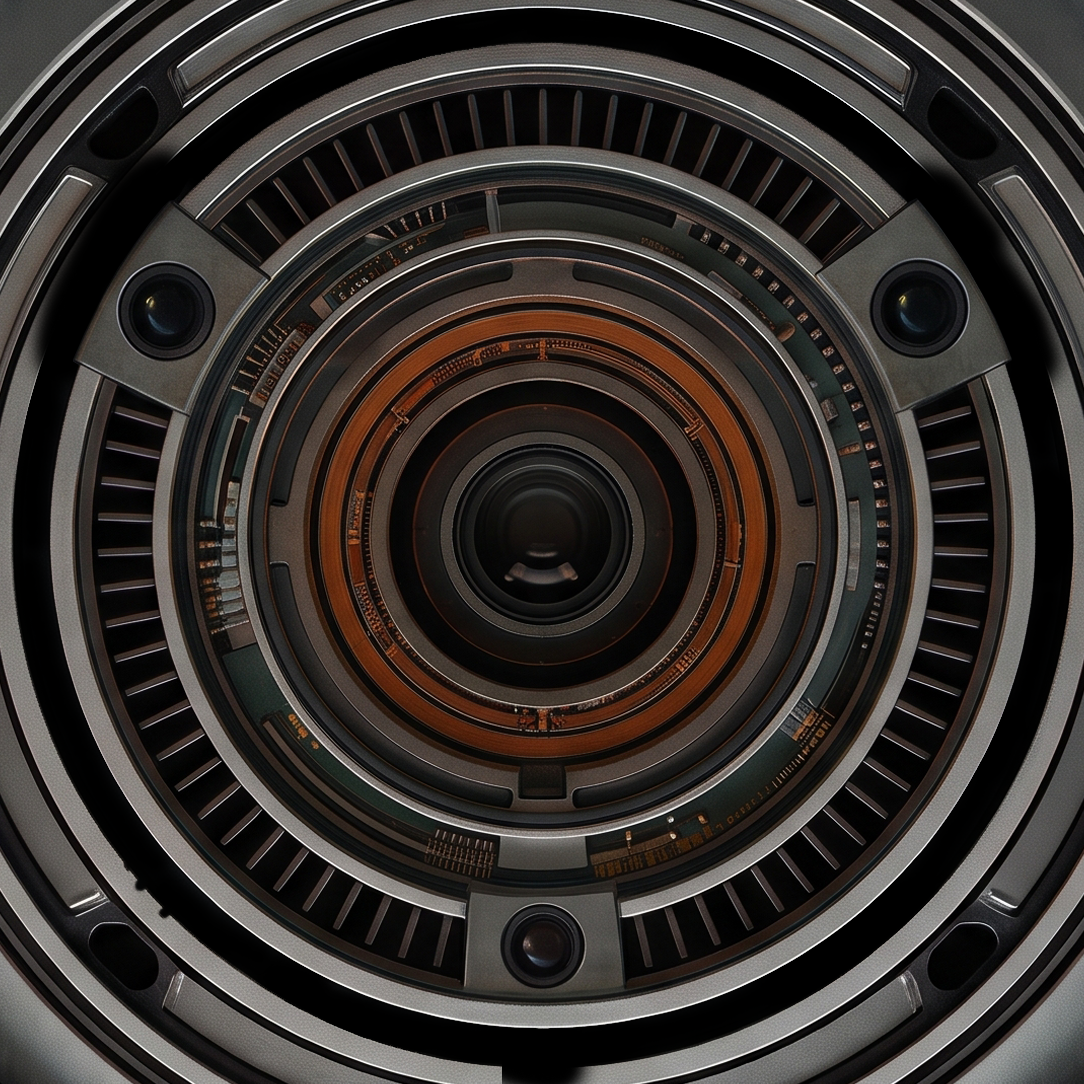
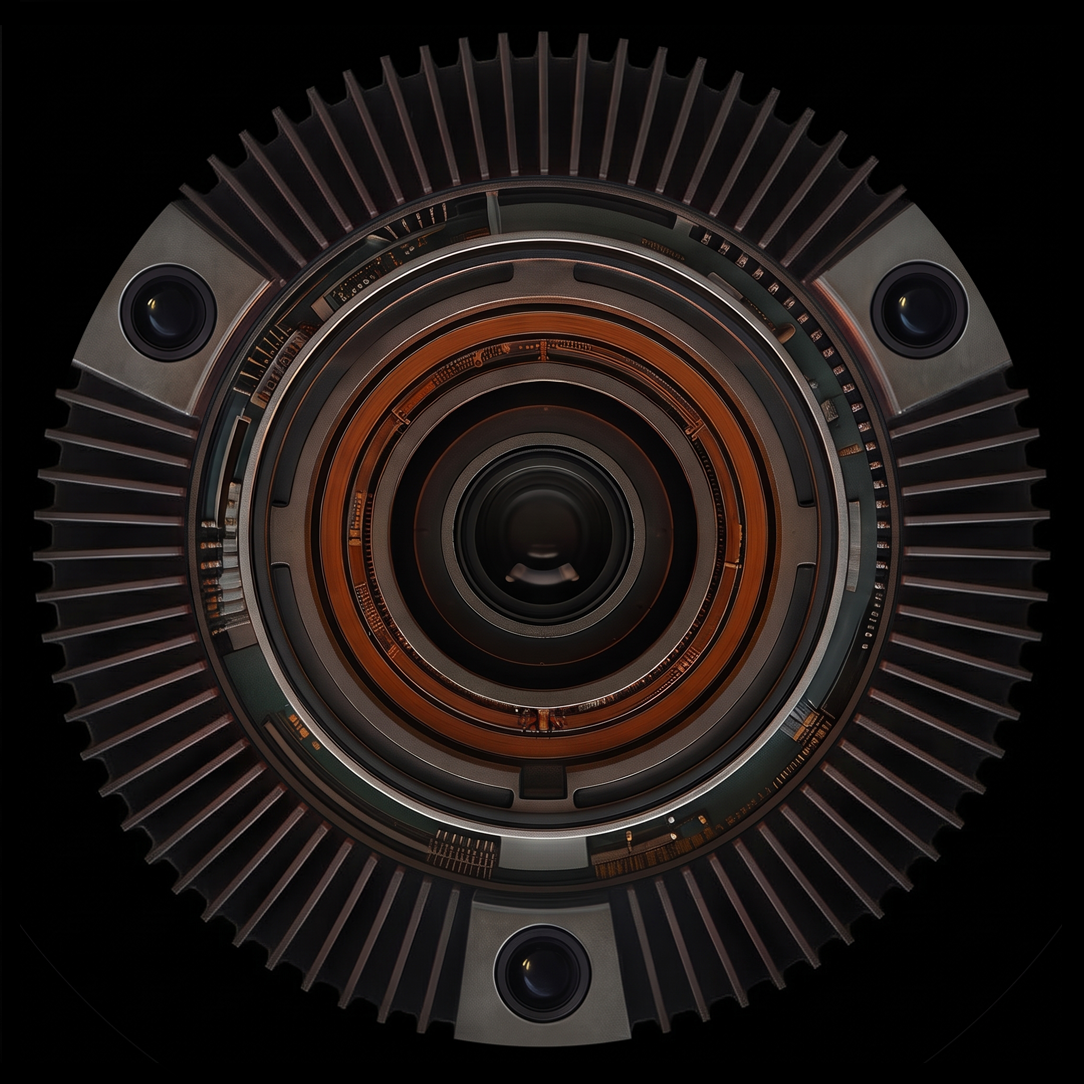
feat: update HAL 2026 optical assembly with redesigned PSD layers and single 3-LED layer

diff --git a/frontend/dist/assets/index-oUEKNjiC.js b/frontend/dist/assets/index-oUEKNjiC.js
@@ -1,0 +1,1 @@
+(function(){const e=document.createElement("link").relList;if(e&&e.supports&&e.supports("modulepreload"))return;for(const s of document.querySelectorAll('link[rel="modulepreload"]'))i(s);new MutationObserver(s=>{for(const n of s)if(n.type==="childList")for(const c of n.addedNodes)c.tagName==="LINK"&&c.rel==="modulepreload"&&i(c)}).observe(document,{childList:!0,subtree:!0});function o(s){const n={};return s.integrity&&(n.integrity=s.integrity),s.referrerPolicy&&(n.referrerPolicy=s.referrerPolicy),s.crossOrigin==="use-credentials"?n.credentials="include":s.crossOrigin==="anonymous"?n.credentials="omit":n.credentials="same-origin",n}function i(s){if(s.ep)return;s.ep=!0;const n=o(s);fetch(s.href,n)}})();class _{constructor({onAudioData:e,onAudioLevel:o,onSpeechDetected:i,onWakeTrigger:s,onLog:n}){this.onAudioData=e||(()=>{}),this.onAudioLevel=o||(()=>{}),this.onSpeechDetected=i||(()=>{}),this.onWakeTrigger=s||(()=>{}),this.onLog=n||console.log,this.audioContext=null,this.mediaStream=null,this.sourceNode=null,this.scriptNode=null,this.isRecording=!1,this.muted=!1,this.sleeping=!1}async start(){if(!this.isRecording)try{if(this.mediaStream||(this.mediaStream=await navigator.mediaDevices.getUserMedia({audio:{channelCount:1,echoCancellation:!0,noiseSuppression:!0,autoGainControl:!0},video:!1})),!this.audioContext){const e=window.AudioContext||window.webkitAudioContext;this.audioContext=new e}this.audioContext.state==="suspended"&&await this.audioContext.resume(),this.sourceNode=this.audioContext.createMediaStreamSource(this.mediaStream),this.scriptNode=this.audioContext.createScriptProcessor(4096,1,1),this.scriptNode.onaudioprocess=e=>{if(!this.isRecording||this.muted)return;const o=e.inputBuffer.getChannelData(0),i=this.audioContext.sampleRate,n=this._downsample(o,i,16e3),c=new ArrayBuffer(n.length*2),h=new DataView(c);let v=0;for(let S=0;S<n.length;S++){const f=Math.max(-1,Math.min(1,n[S]));h.setInt16(S*2,f<0?f*32768:f*32767,!0),v+=f*f}const k=Math.sqrt(v/n.length),N=Math.min(1,k*5);if(this.onAudioLevel(N),N>.35&&this.onSpeechDetected(),this.sleeping){N>.7&&this.onWakeTrigger();return}this.onAudioData(c)},this.sourceNode.connect(this.scriptNode),this.scriptNode.connect(this.audioContext.destination),this.isRecording=!0,this.onLog("🎙 AudioRecorder: Microphone capture active (16kHz 16-bit PCM streaming).")}catch(e){throw this.onLog(`❌ AudioRecorder: Failed to start microphone: ${e.message}`),e}}stop(){this.isRecording=!1,this.scriptNode&&(this.scriptNode.disconnect(),this.scriptNode=null),this.sourceNode&&(this.sourceNode.disconnect(),this.sourceNode=null),this.onAudioLevel(0)}_downsample(e,o,i){if(o===i)return e;const s=o/i,n=Math.round(e.length/s),c=new Float32Array(n);let h=0,v=0;for(;h<c.length;){const k=Math.round((h+1)*s);let N=0,S=0;for(let f=v;f<k&&f<e.length;f++)N+=e[f],S++;c[h]=S>0?N/S:0,h++,v=k}return c}}class H{constructor({onPlaybackStateChange:e,onAudioLevel:o,onLog:i}){this.onPlaybackStateChange=e||(()=>{}),this.onAudioLevel=o||(()=>{}),this.onLog=i||console.log,this.audioContext=null,this.gainNode=null,this.analyser=null,this.isPlaying=!1,this.volumeLevel=5,this.scheduledTime=0,this.activeSources=[],this.meterInterval=null}async initialize(){if(!this.audioContext){const i=window.AudioContext||window.webkitAudioContext;this.audioContext=new i({sampleRate:24e3}),this.gainNode=this.audioContext.createGain(),this._applyVolume(),this.analyser=this.audioContext.createAnalyser(),this.analyser.fftSize=256,this.analyser.smoothingTimeConstant=.4,this.gainNode.connect(this.analyser),this.analyser.connect(this.audioContext.destination),this._startMeter()}this.audioContext.state==="suspended"&&this.audioContext.resume().catch(i=>this.onLog(`Resume warning: ${i.message}`));const e=this.audioContext.createBuffer(1,1,24e3),o=this.audioContext.createBufferSource();o.buffer=e,o.connect(this.gainNode),o.start(),this.onLog("🔈 AudioPlayer initialized and unlocked on iOS AudioContext.")}setVolumeLevel(e){this.volumeLevel=Math.max(1,Math.min(10,e)),this._applyVolume(),this.onLog(`🔊 AudioPlayer: Set hardware volume to ${this.volumeLevel}/10`)}_applyVolume(){if(this.gainNode){const e=this.volumeLevel/5;this.gainNode.gain.setValueAtTime(e,this.audioContext?this.audioContext.currentTime:0)}}playChunk(e){if(!this.audioContext)return;this.audioContext.state==="suspended"&&this.audioContext.resume();const o=new Int16Array(e);if(o.length===0)return;const i=new Float32Array(o.length);for(let h=0;h<o.length;h++)i[h]=o[h]/32768;const s=this.audioContext.createBuffer(1,i.length,24e3);s.getChannelData(0).set(i);const n=this.audioContext.createBufferSource();n.buffer=s,n.connect(this.gainNode);const c=this.audioContext.currentTime;this.scheduledTime<c&&(this.scheduledTime=c),n.start(this.scheduledTime),this.scheduledTime+=s.duration,this.activeSources.push(n),this.isPlaying||(this.isPlaying=!0,this.onPlaybackStateChange(!0)),n.onended=()=>{const h=this.activeSources.indexOf(n);h>-1&&this.activeSources.splice(h,1),this.activeSources.length===0&&this.scheduledTime<=this.audioContext.currentTime+.1&&(this.isPlaying=!1,this.onPlaybackStateChange(!1))}}finishStream(){this.activeSources.length===0&&(this.isPlaying=!1,this.onPlaybackStateChange(!1))}stopPlayback(){this.activeSources.forEach(e=>{try{e.stop(),e.disconnect()}catch{}}),this.activeSources=[],this.scheduledTime=0,this.isPlaying&&(this.isPlaying=!1,this.onPlaybackStateChange(!1))}_startMeter(){if(this.meterInterval)return;const e=new Uint8Array(this.analyser.frequencyBinCount);this.meterInterval=setInterval(()=>{if(!this.isPlaying||!this.analyser){this.onAudioLevel(0);return}this.analyser.getByteTimeDomainData(e);let o=0;for(let n=0;n<e.length;n++){const c=(e[n]-128)/128;o+=c*c}const i=Math.sqrt(o/e.length),s=Math.min(1,i*4);this.onAudioLevel(s)},30)}}class W{constructor({onAudioReceived:e,onStringReceived:o,onStatusChange:i,onLog:s}){this.onAudioReceived=e||(()=>{}),this.onStringReceived=o||(()=>{}),this.onStatusChange=i||(()=>{}),this.onLog=s||console.log,this.socket=null,this.isConnected=!1,this.reconnectTimer=null,this.clientId=this._getOrCreateClientId(),this.serverHost=localStorage.getItem("hal_ws_host")||"192.168.40.189:8001"}_getOrCreateClientId(){let e=localStorage.getItem("hal_client_id");return e||(e="hal_device_"+Math.random().toString(36).substring(2,11),localStorage.setItem("hal_client_id",e)),e}setCustomHost(e){this.serverHost=e,localStorage.setItem("hal_ws_host",e),this.connect()}connect(){if(this.socket&&(this.socket.readyState===WebSocket.OPEN||this.socket.readyState===WebSocket.CONNECTING))return;clearTimeout(this.reconnectTimer);const o=`${window.location.protocol==="https:"?"wss:":"ws:"}//${window.location.host}/ws/hal/${this.clientId}/`;this.onLog(`🌐 Connecting WebSocket: ${o}`),this.onStatusChange("CONNECTING");try{this.socket=new WebSocket(o),this.socket.binaryType="arraybuffer",this.socket.onopen=()=>{this.isConnected=!0,this.onLog("✅ WebSocket connected successfully to HAL server."),this.onStatusChange("CONNECTED")},this.socket.onmessage=i=>{i.data instanceof ArrayBuffer?this.onAudioReceived(i.data):typeof i.data=="string"&&this.onStringReceived(i.data)},this.socket.onerror=i=>{this.onLog(`⚠ WebSocket error: ${i.message||"Connection error"}`)},this.socket.onclose=i=>{this.isConnected=!1,this.onLog(`🔴 WebSocket disconnected (Code: ${i.code}). Auto-reconnecting in 3s...`),this.onStatusChange("DISCONNECTED"),this.reconnectTimer=setTimeout(()=>this.connect(),3e3)}}catch(i){this.onLog(`❌ WebSocket instantiation failure: ${i.message}`),this.onStatusChange("FAILED")}}sendAudio(e){this.socket&&this.socket.readyState===WebSocket.OPEN&&this.socket.send(e)}sendJson(e){this.socket&&this.socket.readyState===WebSocket.OPEN&&this.socket.send(JSON.stringify(e))}sendInterrupt(){this.socket&&this.socket.readyState===WebSocket.OPEN&&(this.socket.send("INTERRUPT"),this.onLog("🛑 Sent INTERRUPT signal to HAL server."))}}class B{constructor({onFinalSpeech:e,onInterimSpeech:o,onStatusChange:i,onLog:s}){this.onFinalSpeech=e||(()=>{}),this.onInterimSpeech=o||(()=>{}),this.onStatusChange=i||(()=>{}),this.onLog=s||console.log;const n=window.SpeechRecognition||window.webkitSpeechRecognition;if(this.isSupported=!!n,this.recognition=null,this.isListening=!1,this.isPaused=!1,this.restartTimeout=null,this.interimDebounceTimer=null,this.lastInterimText="",this.isSupported)try{this.recognition=new n,this.recognition.continuous=!0,this.recognition.interimResults=!0,this.recognition.lang="en-US",this.recognition.maxAlternatives=1,this._bindEvents(),this.onLog("🗣 [SpeechRecognizer] Web Speech API initialized (webkitSpeechRecognition supported).")}catch(c){this.onLog(`⚠ [SpeechRecognizer] Initialization error: ${c.message}`),this.isSupported=!1}else this.onLog("⚠ [SpeechRecognizer] Web Speech API not supported in this browser. Fallback to audio VAD.")}_bindEvents(){this.recognition&&(this.recognition.onstart=()=>{this.onLog("🎙 [SpeechRecognizer] Speech recognition session started."),this.onStatusChange("LISTENING")},this.recognition.onresult=e=>{if(this.isPaused)return;let o="",i="";for(let s=e.resultIndex;s<e.results.length;++s){const n=e.results[s],c=n[0]?n[0].transcript:"";n.isFinal?i+=c:o+=c}if(i.trim()){clearTimeout(this.interimDebounceTimer),this.lastInterimText="";const s=i.trim();this.onLog(`🗣 [SpeechRecognizer] Final transcript recognized: "${s}"`),this.onFinalSpeech(s);return}o.trim()&&(this.lastInterimText=o.trim(),this.onInterimSpeech(this.lastInterimText),clearTimeout(this.interimDebounceTimer),this.interimDebounceTimer=setTimeout(()=>{if(this.lastInterimText&&!this.isPaused){const s=this.lastInterimText;this.lastInterimText="",this.onLog(`⏱ [SpeechRecognizer] Debounce-finalized interim speech: "${s}"`),this.onFinalSpeech(s)}},800))},this.recognition.onerror=e=>{e.error!=="no-speech"&&(this.onLog(`⚠ [SpeechRecognizer] Error: ${e.error}`),e.error==="not-allowed"&&(this.isListening=!1,this.onStatusChange("DENIED")))},this.recognition.onend=()=>{if(clearTimeout(this.interimDebounceTimer),this.lastInterimText&&!this.isPaused){const e=this.lastInterimText;this.lastInterimText="",this.onLog(`🏁 [SpeechRecognizer] Flushed pending speech on session end: "${e}"`),this.onFinalSpeech(e)}this.isListening&&!this.isPaused?(clearTimeout(this.restartTimeout),this.restartTimeout=setTimeout(()=>{this._safeStart()},200)):this.onStatusChange("IDLE")})}_safeStart(){if(!(!this.recognition||!this.isListening||this.isPaused))try{this.recognition.start()}catch(e){e.name!=="InvalidStateError"&&this.onLog(`⚠ [SpeechRecognizer] Start warning: ${e.message}`)}}start(){this.isSupported&&(this.isListening=!0,this.isPaused=!1,this._safeStart())}stop(){if(this.isSupported){this.isListening=!1,this.isPaused=!1,clearTimeout(this.restartTimeout),clearTimeout(this.interimDebounceTimer);try{this.recognition.stop()}catch{}}}pause(){if(!(!this.isSupported||this.isPaused)){this.isPaused=!0,clearTimeout(this.interimDebounceTimer);try{this.recognition.abort()}catch{}this.onLog("🔇 [SpeechRecognizer] Muted recognition (HAL output in progress).")}}resume(){!this.isSupported||!this.isListening||(this.isPaused=!1,this.lastInterimText="",this.onLog("🎙 [SpeechRecognizer] Resumed active speech listening."),this._safeStart())}}class F{constructor({threshold:e=12,cooldownMs:o=600,onKnock:i,onLog:s}={}){this.threshold=e,this.cooldownMs=o,this.onKnock=i||(()=>{}),this.onLog=s||console.log,this.isSupported=typeof window<"u"&&"DeviceMotionEvent"in window,this.isActive=!1,this.lastKnockTime=0,this.lastX=0,this.lastY=0,this.lastZ=0,this.hasPreviousGravitySample=!1,this._handleMotion=this._handleMotion.bind(this)}async initialize(){if(!this.isSupported)return this.onLog("⚠ [MotionDetector] DeviceMotionEvent not supported in this browser environment."),!1;try{if(typeof DeviceMotionEvent.requestPermission=="function"){const e=await DeviceMotionEvent.requestPermission();return e==="granted"?(this.onLog("✅ [MotionDetector] iOS DeviceMotion permission GRANTED."),this.start(),!0):(this.onLog(`⚠ [MotionDetector] iOS DeviceMotion permission ${e}.`),!1)}else return this.start(),!0}catch(e){return this.onLog(`❌ [MotionDetector] Permission request error: ${e.message}`),!1}}start(){this.isActive||!this.isSupported||(window.addEventListener("devicemotion",this._handleMotion,{passive:!0}),this.isActive=!0,this.onLog(`🎯 [MotionDetector] Active: monitoring enclosure knocks (Threshold: ${this.threshold} m/s²).`))}stop(){this.isActive&&(window.removeEventListener("devicemotion",this._handleMotion),this.isActive=!1,this.hasPreviousGravitySample=!1)}_handleMotion(e){let o=0;if(e.acceleration&&e.acceleration.x!==null){const i=e.acceleration.x||0,s=e.acceleration.y||0,n=e.acceleration.z||0;o=Math.hypot(i,s,n)}else if(e.accelerationIncludingGravity){const i=e.accelerationIncludingGravity.x||0,s=e.accelerationIncludingGravity.y||0,n=e.accelerationIncludingGravity.z||0;if(this.hasPreviousGravitySample){const c=i-this.lastX,h=s-this.lastY,v=n-this.lastZ;o=Math.hypot(c,h,v)}this.lastX=i,this.lastY=s,this.lastZ=n,this.hasPreviousGravitySample=!0}if(o>this.threshold){const i=performance.now();i-this.lastKnockTime>this.cooldownMs&&(this.lastKnockTime=i,this.onLog(`💥 [MotionDetector] ENCLOSURE KNOCK DETECTED (Shock magnitude: ${o.toFixed(1)} m/s²)`),this.onKnock(o))}}}document.getElementById("app");document.getElementById("hal-stage");document.getElementById("layer-chassis");const y=document.getElementById("layer-ring"),L=document.getElementById("layer-center"),u=document.getElementById("layer-dots");document.getElementById("layer-mask");const I=document.getElementById("init-overlay"),a={IDLE:"IDLE",LISTENING:"LISTENING",THINKING:"THINKING",PROCESSING:"PROCESSING",SLEEPING:"SLEEPING"};let l=a.IDLE,P=null,A=null,b=!1;const K=12e4;function w(){l===a.SLEEPING&&(r("☀ System awoken from Sleep Mode."),document.body.classList.remove("sleep-mode"),m&&(m.sleeping=!1),d&&d.resume(),p(a.LISTENING),T())}function G(){if(l===a.PROCESSING||l===a.THINKING){T();return}r("🌙 System entering Sleep Mode to conserve OLED power."),document.body.classList.add("sleep-mode"),m&&(m.sleeping=!0),d&&d.pause(),p(a.SLEEPING)}function T(){clearTimeout(A),l!==a.SLEEPING&&(A=setTimeout(G,K))}function r(t){console.log(t)}function p(t){l=t,document.body.className=document.body.className.replace(/state-\w+/g,"").trim(),(t===a.LISTENING||t===a.IDLE||t===a.THINKING)&&M(),r(`🔄 State Transition -> ${t}`)}function M(){l!==a.SLEEPING&&(L&&(L.style.opacity="1.0"),y&&(y.style.opacity="0.0"),u&&(u.style.opacity="0.0"))}let R=null;function C(t="bright",e=220){if(clearTimeout(R),!!u){if(t==="double"){u.style.opacity="1.0",setTimeout(()=>{u&&(u.style.opacity="0.0"),setTimeout(()=>{u&&(u.style.opacity="1.0"),setTimeout(()=>{u&&(u.style.opacity="0.0")},120)},70)},120);return}t==="soft"?u.style.opacity="0.6":u.style.opacity="1.0",R=setTimeout(()=>{u&&(u.style.opacity="0.0")},e)}}function U(t){r(`💡 [HAL Emotion Tag] Received: ${t}`);const e=(t||"").toUpperCase();e==="ALERT"||e==="ANGER"||e==="WARN"?C("double",400):e==="SURPRISE"||e==="EMOTION"?C("bright",650):e==="PONDER"?C("soft",400):C("bright",350)}function O(t,e=!1){if(l===a.SLEEPING)return;const o=Math.min(1,Math.max(0,t));if(e){if(y&&(y.style.opacity="0.0"),L){const i=(.72+o*.28).toFixed(2);L.style.opacity=i}}else if(o>.04){if(L&&(L.style.opacity="0.75"),y){const i=Math.min(1,o*1.35).toFixed(2);y.style.opacity=i}}else L&&(L.style.opacity="1.0"),y&&(y.style.opacity="0.0")}const E=new H({onPlaybackStateChange:t=>{t?(m&&(m.muted=!0),d&&d.pause(),p(a.PROCESSING)):(m&&(m.muted=!1),d&&d.resume(),M(),q())},onAudioLevel:t=>{l===a.PROCESSING&&O(t,!0)},onLog:r}),d=new B({onFinalSpeech:t=>{l===a.SLEEPING&&w(),g&&g.isConnected&&t&&(r(`📤 [SpeechRecognizer] Sending transcript to HAL: "${t}"`),g.sendJson({type:"user_text",text:t}),p(a.THINKING))},onInterimSpeech:t=>{},onStatusChange:t=>{r(`🗣 SpeechRecognizer status: ${t}`)},onLog:r}),V=new F({threshold:12,onKnock:t=>{r(`💥 Enclosure knock detected (${t.toFixed(1)} m/s²)!`),C("bright",220),l===a.SLEEPING?w():l===a.PROCESSING||l===a.THINKING?(r("⚡ Intercepting HAL via physical enclosure knock."),z()):T()},onLog:r}),m=new _({onAudioData:t=>{g&&g.isConnected&&g.sendAudio(t)},onAudioLevel:t=>{l!==a.PROCESSING&&O(t,!1)},onSpeechDetected:()=>{l===a.PROCESSING&&z(),T()},onWakeTrigger:()=>{w()},onLog:r}),g=new W({onAudioReceived:t=>{l!==a.PROCESSING&&p(a.PROCESSING),E.playChunk(t)},onStringReceived:t=>{if(t.startsWith("VOLUME:")){const e=parseInt(t.split(":")[1],10);isNaN(e)||(E.setVolumeLevel(e),r(`🔊 HAL adjusted vocal volume to: ${e}/10`))}else if(t.startsWith("TAG:")){const e=t.substring(4).trim();U(e)}else t==="THINKING"?(r("🤔 Received THINKING signal from server."),p(a.THINKING)):t==="SLEEP"?(r("🌙 Received SLEEP signal from server. Queueing sleep mode for after voice playback."),b=!0):t==="DONE"&&(r("🏁 Received DONE signal from server."),E.finishStream())},onStatusChange:t=>{r(`🌐 WebSocket: ${t}`),t==="CONNECTED"&&(g.sendJson({type:"init",volume:E.volumeLevel}),r(`🎛 Synced hardware volume ${E.volumeLevel}/10 to HAL backend.`))},onLog:r});function q(){p(a.LISTENING),r("💬 Audio response finished. Resuming continuous listening."),b?(b=!1,G()):T();try{m.start()}catch{}}function z(){r("⚡ User voice barge-in detected! Halting HAL speech playback immediately."),E.stopPlayback(),g.sendInterrupt(),d&&d.resume(),p(a.LISTENING)}async function $(){if("wakeLock"in navigator)try{P=await navigator.wakeLock.request("screen"),r("🔒 Screen Wake Lock active (Display will stay ON)."),P.addEventListener("release",()=>{r("🔓 Screen Wake Lock was released.")})}catch(t){r(`⚠ Wake Lock error: ${t.name}, ${t.message}`)}else r("⚠ Screen Wake Lock API not supported on this browser.")}document.addEventListener("visibilitychange",async()=>{P!==null&&document.visibilityState==="visible"&&await $()});async function x(){r("🚀 Initializing HAL 9000 system on iPhone..."),I&&(I.classList.add("fade-out"),setTimeout(()=>{I&&I.parentNode&&I.remove()},400));try{if(!navigator.mediaDevices||!navigator.mediaDevices.getUserMedia)throw new Error("iOS requires HTTPS for microphone access. Please open https://"+window.location.host);g.connect(),await E.initialize(),await m.start(),d.start(),p(a.LISTENING),T(),$().catch(t=>r(`WakeLock note: ${t.message}`)),await V.initialize(),r("✅ HAL 9000 fully operational and standing by.")}catch(t){r(`❌ Initialization error: ${t.message}`),alert(`Microphone permission is required to operate HAL 9000: ${t.message}`)}}I&&(I.addEventListener("click",x),I.addEventListener("touchstart",t=>{t.preventDefault(),x()}));document.body.addEventListener("click",()=>{l===a.SLEEPING&&w()});document.body.addEventListener("touchstart",t=>{l===a.SLEEPING&&(t.preventDefault(),w())});document.body.classList.remove("mode-desk");document.body.classList.add("mode-enclosure");const D=document.getElementById("hal-container"),Y=-146.67;D&&(D.style.transform=`translateY(${Y}px)`);screen.orientation&&screen.orientation.lock?screen.orientation.lock("portrait").catch(t=>r("Orientation lock note: "+t.message)):window.screen&&window.screen.lockOrientation&&window.screen.lockOrientation("portrait");r("📱 Initialized HAL 9000 pure optical mode (ZERO text UI).");

diff --git a/frontend/src/main.js b/frontend/src/main.js
@@ -10,8 +10,7 @@ const halStage = document.getElementById('hal-stage');
 const layerChassis = document.getElementById('layer-chassis');
 const layerRing = document.getElementById('layer-ring');
 const layerCenter = document.getElementById('layer-center');
-const layerDotsSoft = document.getElementById('layer-dots-soft');
-const layerDotsBright = document.getElementById('layer-dots-bright');
+const layerDots = document.getElementById('layer-dots');
 const layerMask = document.getElementById('layer-mask');
 const initOverlay = document.getElementById('init-overlay');
 
@@ -90,40 +89,37 @@ function resetToStandby() {
   if (currentState === State.SLEEPING) return;
   if (layerCenter) layerCenter.style.opacity = '1.0';
   if (layerRing) layerRing.style.opacity = '0.0';
-  if (layerDotsBright) layerDotsBright.style.opacity = '0.0';
-  if (layerDotsSoft) layerDotsSoft.style.opacity = '0.0';
+  if (layerDots) layerDots.style.opacity = '0.0';
 }
 
-// HAL 2026 Optical Subsystem: 3 Auxiliary Satellite Dots (Knock / TAG ONLY)
+// HAL 2026 Optical Subsystem: 3 Auxiliary Satellite LEDs (Knock / TAG ONLY)
 let dotFlashTimer = null;
 function flashDots(mode = 'bright', durationMs = 220) {
   clearTimeout(dotFlashTimer);
+  if (!layerDots) return;
 
   if (mode === 'double') {
-    if (layerDotsBright) layerDotsBright.style.opacity = '1.0';
+    layerDots.style.opacity = '1.0';
     setTimeout(() => {
-      if (layerDotsBright) layerDotsBright.style.opacity = '0.0';
+      if (layerDots) layerDots.style.opacity = '0.0';
       setTimeout(() => {
-        if (layerDotsBright) layerDotsBright.style.opacity = '1.0';
+        if (layerDots) layerDots.style.opacity = '1.0';
         setTimeout(() => {
-          if (layerDotsBright) layerDotsBright.style.opacity = '0.0';
+          if (layerDots) layerDots.style.opacity = '0.0';
         }, 120);
       }, 70);
     }, 120);
     return;
   }
 
-  if (mode === 'bright') {
-    if (layerDotsBright) layerDotsBright.style.opacity = '1.0';
-    if (layerDotsSoft) layerDotsSoft.style.opacity = '0.0';
-  } else if (mode === 'soft') {
-    if (layerDotsBright) layerDotsBright.style.opacity = '0.0';
-    if (layerDotsSoft) layerDotsSoft.style.opacity = '0.85';
+  if (mode === 'soft') {
+    layerDots.style.opacity = '0.6';
+  } else {
+    layerDots.style.opacity = '1.0';
   }
 
   dotFlashTimer = setTimeout(() => {
-    if (layerDotsBright) layerDotsBright.style.opacity = '0.0';
-    if (layerDotsSoft) layerDotsSoft.style.opacity = '0.0';
+    if (layerDots) layerDots.style.opacity = '0.0';
   }, durationMs);
 }
 
@@ -134,6 +130,8 @@ function handleEmotionTag(tag) {
     flashDots('double', 400);
   } else if (t === 'SURPRISE' || t === 'EMOTION') {
     flashDots('bright', 650);
+  } else if (t === 'PONDER') {
+    flashDots('soft', 400);
   } else {
     flashDots('bright', 350);
   }

diff --git a/frontend/dist/assets/index-Hx1dhsKn.css b/frontend/dist/assets/index-Hx1dhsKn.css
@@ -1,0 +1,1 @@
+:root{--bg-color: #000000;--text-color: #e0e0e0;--accent-red: #ff2200;--hal-core-yellow: #ffee55;--hal-glow-red: #e60000}*{box-sizing:border-box;margin:0;padding:0;-webkit-touch-callout:none;-webkit-user-select:none;user-select:none}html,body{width:100vw;height:100vh;height:100dvh;overflow:hidden;background-color:var(--bg-color);color:var(--text-color);font-family:-apple-system,BlinkMacSystemFont,SF Pro Display,Segoe UI,Roboto,Helvetica,Arial,sans-serif;position:fixed}#app{width:100%;height:100%;position:relative;display:flex;justify-content:center;align-items:center;background-color:#000}#hal-stage{width:100%;height:100%;display:flex;justify-content:center;align-items:center;position:relative;overflow:hidden;touch-action:manipulation}#hal-container{position:relative;display:flex;justify-content:center;align-items:center;width:100vw;height:100vh;transform:translateY(-146.67px)}#hal-2026-assembly{position:absolute;top:50%;left:50%;transform:translate(-50%,-50%);width:min(89.65vw,55.5vh);height:min(89.65vw,55.5vh);display:flex;justify-content:center;align-items:center;pointer-events:none}.hal2026-layer{position:absolute;top:0;left:0;width:100%;height:100%;object-fit:contain;pointer-events:none;will-change:opacity;transform:translateZ(0)}#layer-chassis{z-index:1;opacity:1}#layer-ring{z-index:2;opacity:0;transition:opacity .12s ease-out}#layer-center{z-index:3;opacity:1;transition:opacity .08s ease-out}#layer-dots{z-index:4;opacity:0;transition:opacity .15s ease-out}#layer-mask{z-index:6;opacity:1}body.mode-enclosure #hal-container,body.mode-enclosure #hal-2026-assembly,body.mode-enclosure #hal-stage{border:none!important;outline:none!important;box-shadow:none}#init-overlay{position:fixed;top:0;left:0;width:100vw;height:100vh;background-color:transparent;z-index:99999;cursor:pointer;-webkit-tap-highlight-color:transparent}#init-overlay.fade-out{opacity:0;pointer-events:none;display:none!important}body.sleep-mode{background-color:#000}body.sleep-mode #layer-center,body.sleep-mode #layer-ring,body.sleep-mode #layer-dots,body.sleep-mode #layer-mask{opacity:0!important;transition:opacity 2.5s ease-in-out!important}body.sleep-mode #layer-chassis{opacity:.15!important;transition:opacity 2.5s ease-in-out!important}

diff --git a/frontend/dist/index.html b/frontend/dist/index.html
@@ -24,8 +24,8 @@
   <link rel="apple-touch-icon" sizes="512x512" href="/icon-512x512.png?v=3" />
   <link rel="apple-touch-icon-precomposed" href="/apple-touch-icon-precomposed.png?v=3" />
 
-  <script type="module" crossorigin src="/assets/index-CMX8ev2A.js"></script>
-  <link rel="stylesheet" crossorigin href="/assets/index--8NjkXi9.css">
+  <script type="module" crossorigin src="/assets/index-oUEKNjiC.js"></script>
+  <link rel="stylesheet" crossorigin href="/assets/index-Hx1dhsKn.css">
 </head>
 <body>
   <div id="app">
@@ -40,8 +40,7 @@
           <img id="layer-chassis" class="hal2026-layer" src="/hal2026/hal2026_chassis_base.png" alt="" draggable="false" />
           <img id="layer-ring" class="hal2026-layer" src="/hal2026/hal2026_acoustic_ring.png" alt="" draggable="false" />
           <img id="layer-center" class="hal2026-layer" src="/hal2026/hal2026_center_core.png" alt="" draggable="false" />
-          <img id="layer-dots-soft" class="hal2026-layer" src="/hal2026/hal2026_aux_dots_soft.png" alt="" draggable="false" />
-          <img id="layer-dots-bright" class="hal2026-layer" src="/hal2026/hal2026_aux_dots_bright.png" alt="" draggable="false" />
+          <img id="layer-dots" class="hal2026-layer" src="/hal2026/hal2026_aux_dots.png" alt="" draggable="false" />
           <img id="layer-mask" class="hal2026-layer" src="/hal2026/hal2026_outer_mask.png" alt="" draggable="false" />
         </div>
       </div>

diff --git a/frontend/index.html b/frontend/index.html
@@ -39,8 +39,7 @@
           <img id="layer-chassis" class="hal2026-layer" src="/hal2026/hal2026_chassis_base.png" alt="" draggable="false" />
           <img id="layer-ring" class="hal2026-layer" src="/hal2026/hal2026_acoustic_ring.png" alt="" draggable="false" />
           <img id="layer-center" class="hal2026-layer" src="/hal2026/hal2026_center_core.png" alt="" draggable="false" />
-          <img id="layer-dots-soft" class="hal2026-layer" src="/hal2026/hal2026_aux_dots_soft.png" alt="" draggable="false" />
-          <img id="layer-dots-bright" class="hal2026-layer" src="/hal2026/hal2026_aux_dots_bright.png" alt="" draggable="false" />
+          <img id="layer-dots" class="hal2026-layer" src="/hal2026/hal2026_aux_dots.png" alt="" draggable="false" />
           <img id="layer-mask" class="hal2026-layer" src="/hal2026/hal2026_outer_mask.png" alt="" draggable="false" />
         </div>
       </div>

diff --git a/frontend/style.css b/frontend/style.css
@@ -104,14 +104,8 @@ html, body {
   transition: opacity 0.08s ease-out;
 }
 
-#layer-dots-soft {
+#layer-dots {
   z-index: 4;
-  opacity: 0.0;
-  transition: opacity 0.2s ease-out;
-}
-
-#layer-dots-bright {
-  z-index: 5;
   opacity: 0.0;
   transition: opacity 0.15s ease-out;
 }
@@ -159,8 +153,7 @@ body.sleep-mode {
 
 body.sleep-mode #layer-center,
 body.sleep-mode #layer-ring,
-body.sleep-mode #layer-dots-soft,
-body.sleep-mode #layer-dots-bright,
+body.sleep-mode #layer-dots,
 body.sleep-mode #layer-mask {
   opacity: 0 !important;
   transition: opacity 2.5s ease-in-out !important;
